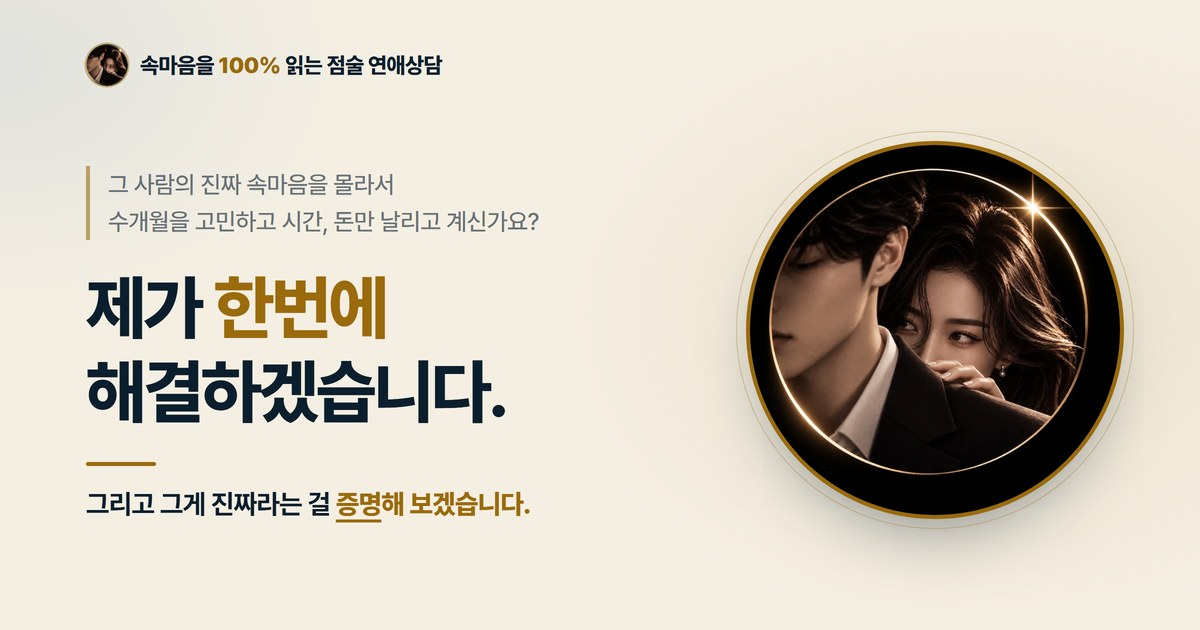
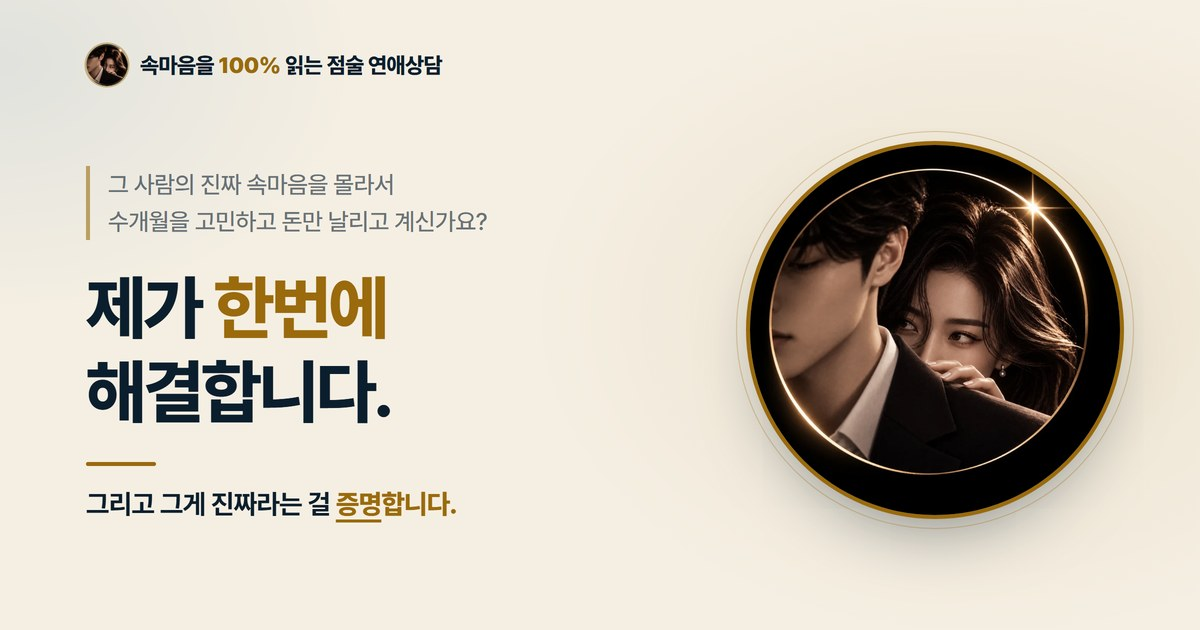
Shorten the hero copy to plain statements; match the share preview
- "수개월을 고민하고 돈만 날리고 계신가요?", "제가 한번에 해결합니다.", "그리고 그게 진짜라는 걸 증명합니다."
- og.jpg and the og description/alt use the same words

Changed region(s): [[0.1542, 0.573, 0.4317, 0.6937], [0.2158, 0.3317, 0.4625, 0.3921], [0.3083, 0.7841, 0.4625, 0.8444]]

diff --git a/index.html b/index.html
@@ -13,11 +13,11 @@
     <meta property="og:site_name" content="점술신" />
     <meta property="og:url" content="https://www.sokmaum.kr/" />
     <meta property="og:title" content="속마음을 100% 읽는 점술 연애상담 | 점술신" />
-    <meta property="og:description" content="제가 한번에 해결하겠습니다. 그리고 그게 진짜라는 걸 증명해 보겠습니다. 못 읽으면 2분 내 전액 환불." />
+    <meta property="og:description" content="제가 한번에 해결합니다. 그리고 그게 진짜라는 걸 증명합니다. 못 읽으면 2분 내 전액 환불." />
     <meta property="og:image" content="https://www.sokmaum.kr/og.jpg" />
     <meta property="og:image:width" content="1200" />
     <meta property="og:image:height" content="630" />
-    <meta property="og:image:alt" content="속마음을 100% 읽는 점술 연애상담 — 제가 한번에 해결하겠습니다." />
+    <meta property="og:image:alt" content="속마음을 100% 읽는 점술 연애상담 — 제가 한번에 해결합니다." />
     <meta property="og:locale" content="ko_KR" />
     <meta name="twitter:card" content="summary_large_image" />
     <meta name="twitter:image" content="https://www.sokmaum.kr/og.jpg" />

diff --git a/src/copy.js b/src/copy.js
@@ -37,10 +37,10 @@ const COPY = {
   hero: {
     eyebrow: "점술로 속마음을 100% 읽는곳",
     // 제목 위 질문 (작게, 두 줄)
-    question: ["그 사람의 진짜 속마음을 몰라서", "수개월을 고민하고 시간, 돈만 날리고 계신가요?"],
-    title: ["제가 <em>한번에</em>", "해결하겠습니다."],
+    question: ["그 사람의 진짜 속마음을 몰라서", "수개월을 고민하고 돈만 날리고 계신가요?"],
+    title: ["제가 <em>한번에</em>", "해결합니다."],
     sub: ["그리고 그게 진짜라는 걸 "],
-    subMark: "<u class=\"proof-u\">증명</u>해 보겠습니다.",   // 마지막 줄 끝, 금색으로 강조되는 부분
+    subMark: "<u class=\"proof-u\">증명</u>합니다.",   // 마지막 줄 끝, 금색으로 강조되는 부분
     ctaMain: "카카오톡 상담문의",
     ctaSub: "7000개의 후기 보기",
     trust: [
